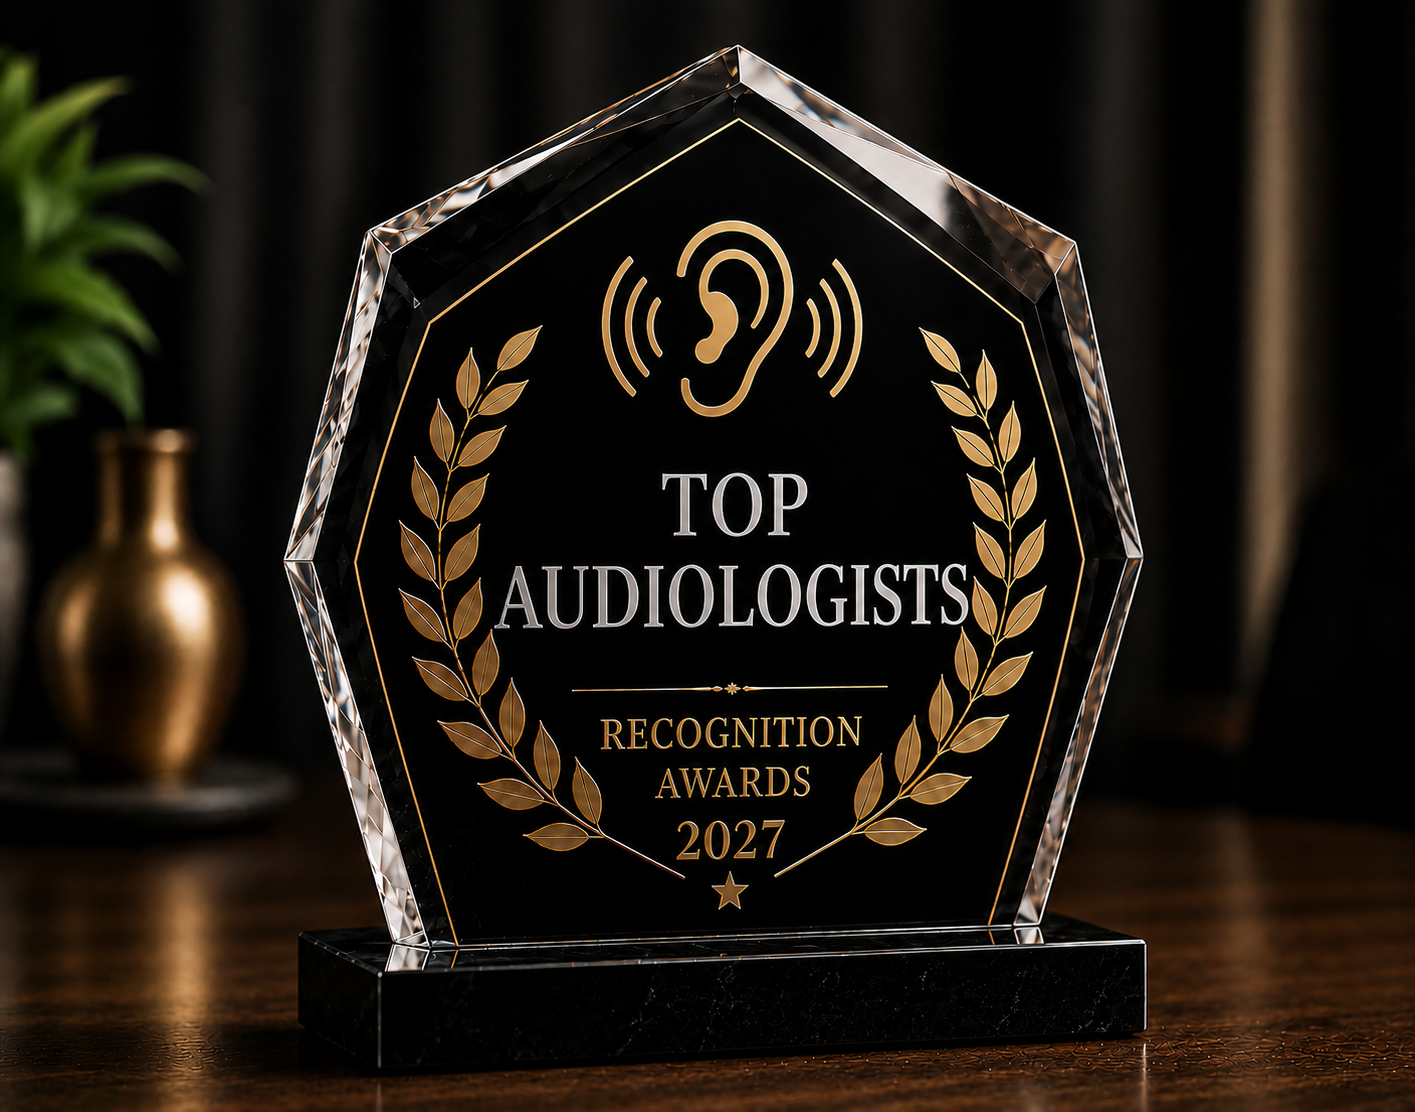
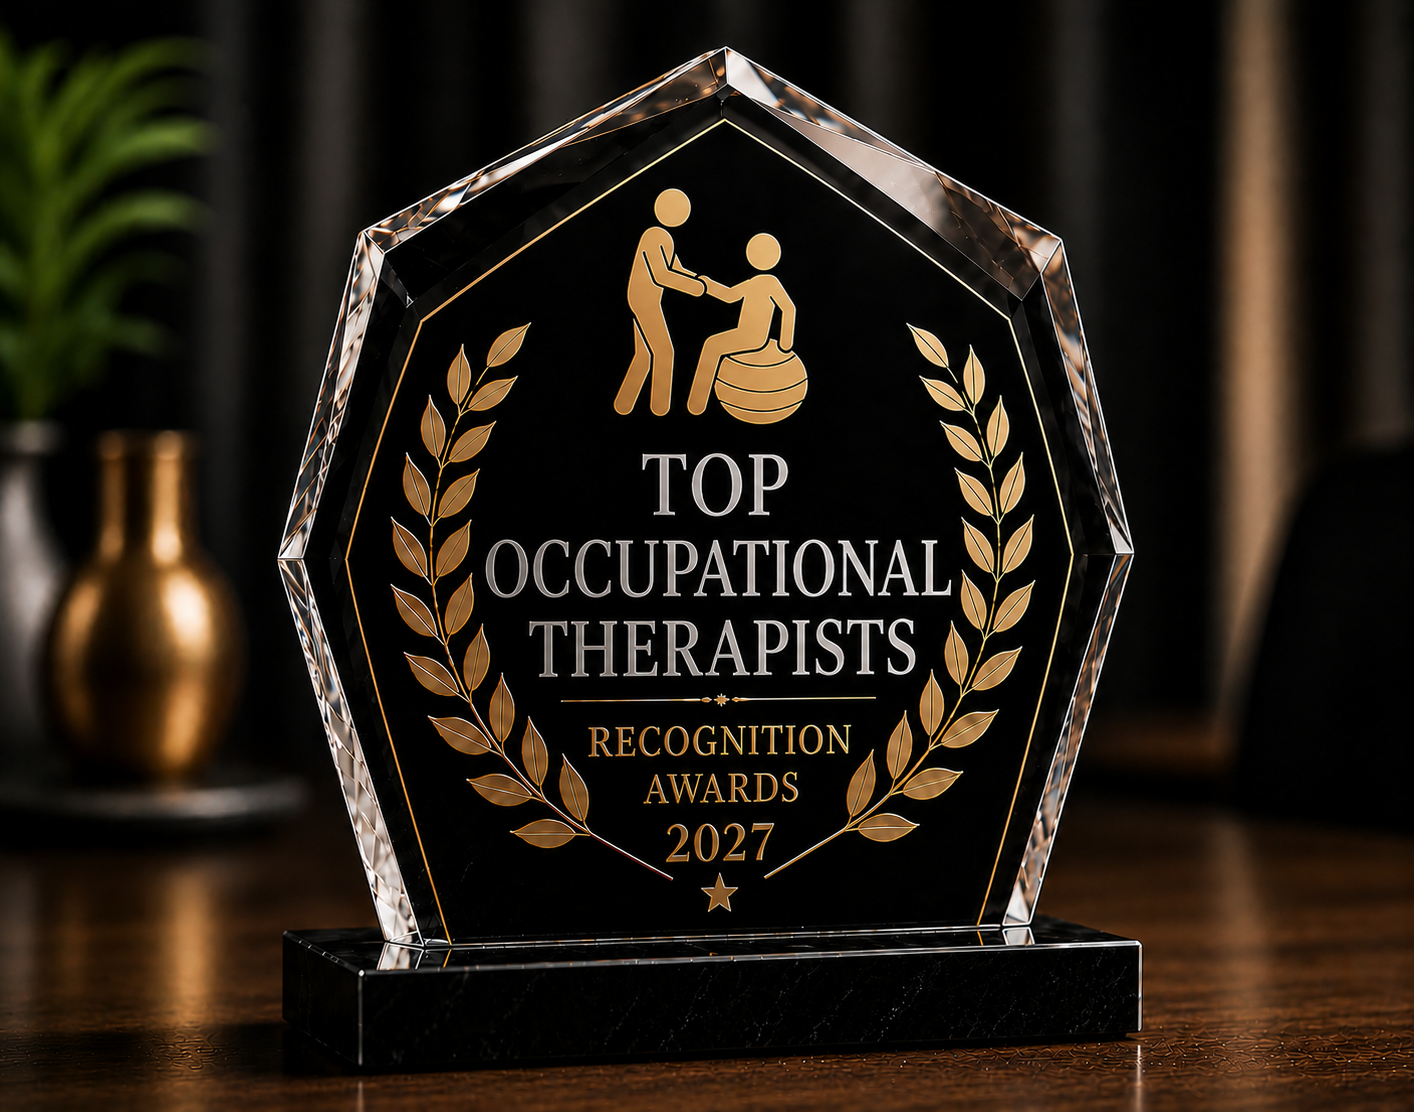
Replace audiology-themed brand mark and plaque with OT-specific artwork
The favicon, header/footer logo icon, and award plaque were all
leftover from the topaudiologists clone: the icon rendered an ear with
sound waves, wrong for an occupational therapy site. Swapped the icon
for a person-in-motion/independence glyph across CheckeredFlag.tsx,
icon.svg, and apple-icon.svg, and replaced the plaque photo with a
real OT-themed recognition award image.

Note: the new plaque image is engraved "2027" while the rest of the
site says 2026 (site.config.ts launchYear) - left as a known
inconsistency to resolve later, not blocking.

diff --git a/components/CheckeredFlag.tsx b/components/CheckeredFlag.tsx
@@ -10,18 +10,21 @@ export default function CheckeredFlag({
 }) {
   return (
     <svg
-      viewBox="0 0 40 26"
+      viewBox="0 0 24 24"
       className={className}
       style={style}
       aria-hidden="true"
       fill="none"
+      stroke="currentColor"
+      strokeWidth="2"
+      strokeLinecap="round"
+      strokeLinejoin="round"
     >
-      <g stroke="currentColor" strokeWidth="2.2" strokeLinecap="round">
-        <path d="M23 3 C27 3 30 6.5 30 10.5 C30 13 28.5 14.8 26.5 15.8 C25.4 16.4 25.1 17.5 25.6 18.4 C26.1 19.3 25.4 20.2 24.4 20 C21.5 19.3 19.5 16.8 19.5 13.8 C19.5 12 20.3 10.5 21.6 9.6 C22.5 9 22.9 8.1 22.7 7 C22.5 5.6 21.3 4.6 19.9 4.6" />
-        <path d="M11,9 A4,4 0 0,1 11,17" strokeWidth="1.8" />
-        <path d="M7,6 A7,7 0 0,1 7,20" strokeWidth="1.8" opacity="0.75" />
-        <path d="M3,3 A10,10 0 0,1 3,23" strokeWidth="1.6" opacity="0.5" />
-      </g>
+      <circle cx="16" cy="4" r="1" />
+      <path d="m18 19 1-7-6 1" />
+      <path d="m5 8 3-3 5.5 3-2.36 3.5" />
+      <path d="M4.24 14.5a5 5 0 0 0 6.88 6" />
+      <path d="M13.76 17.5a5 5 0 0 0-6.88-6" />
     </svg>
   );
 }

diff --git a/components/Logo.tsx b/components/Logo.tsx
@@ -11,7 +11,7 @@ interface LogoProps {
 export default function Logo({ variant = "onDark", className = "" }: LogoProps) {
   return (
     <div className={`flex items-center gap-[0.5em] select-none ${className}`}>
-      <CheckeredFlag className="h-[1.7em] w-[2.4em] flex-shrink-0 text-gold" />
+      <CheckeredFlag className="h-[1.7em] w-[1.7em] flex-shrink-0 text-gold" />
       <Wordmark variant={variant} className="text-[1.5em]" />
     </div>
   );